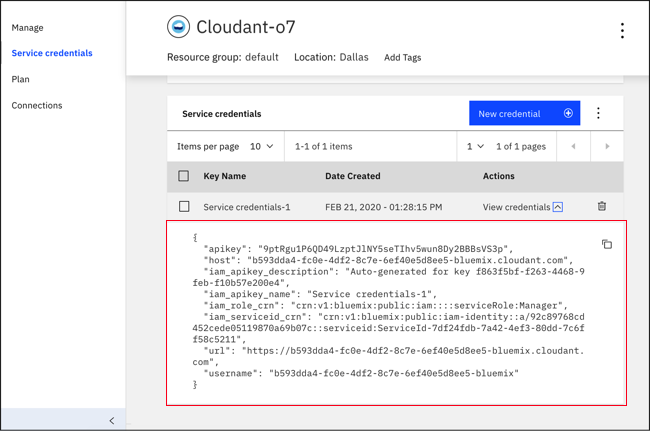
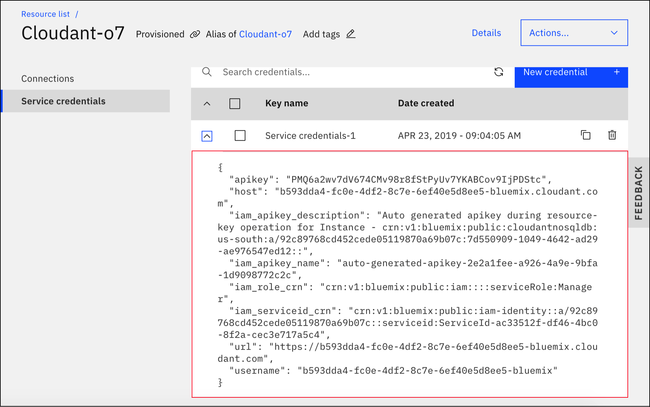
Update getting started tutorial.

diff --git a/getting-started.md b/getting-started.md
@@ -2,7 +2,7 @@
 
 copyright:
   years: 2015, 2020
-lastupdated: "2020-04-20"
+lastupdated: "2020-05-01"
 
 keywords: getting started, example, connect to service instance, create a database, populate database, retrieve data, queries, retrieve data, api endpoint, delete database, close connection, python code, couchdb-as-a-service, couchdb hosted, couchdb, databases for couchdb
 
@@ -109,6 +109,9 @@ Verify that you have what you need to start the tutorial from the following list
 
    a. In the {{site.data.keyword.cloud_notm}} dashboard, go to the **Menu** icon > **Resource List**, and open your {{site.data.keyword.cloudant_short_notm}} service instance.
 
+   Remember to create a service instance first. You can see instructions in the second bullet of the [Before you begin](/docs/services/Cloudant?topic=cloudant-getting-started-with-cloudant#prereqs) section. 
+   {: note}
+
    b. In the menu, click `Service credentials`.
 
    c. Click the `New credential` button.
@@ -117,7 +120,7 @@ Verify that you have what you need to start the tutorial from the following list
   
    d. Enter a name for the new credential in the Add new credential window, as shown in the following screen capture.
 
-   e. (Optional) Add inline configuration parameters.
+   e. (Optional) Click Advanced options, and add inline configuration parameters.
 
    f. Click the `Add` button. 
 
@@ -125,7 +128,7 @@ Verify that you have what you need to start the tutorial from the following list
 
    Your credentials are added to the Service credentials table.
    
-   g. Click `View credentials` under Actions. 
+   g. Click the twistie to the left of your service credential. 
    
    ![View all service credentials.](tutorials/images/img0052.png){: caption="Figure 4. View all service credentials" caption-side="bottom"}
    
@@ -264,11 +267,11 @@ A full retrieval also includes the data within a document.
     ```json
     [
         {
+            "id": "14be111aac74534cf8d390eaa57db888",
+            "key": "14be111aac74534cf8d390eaa57db888",
             "value": {
                 "rev": "1-106e76a2612ea13468b2f243ea75c9b1"
-            },
-            "id": "14be111aac74534cf8d390eaa57db888",
-            "key": "14be111aac74534cf8d390eaa57db888"
+            }
         }
     ]
     ```
@@ -325,7 +328,7 @@ Follow these steps to see your database and documents on the {{site.data.keyword
     The {{site.data.keyword.cloud_notm}} dashboard can be found at: cloud.ibm.com. After you authenticate with your user name and password, you're presented with the IBM Cloud dashboard.
 2.  Click **Services** in the Resource summary pane to see your {{site.data.keyword.cloudant_short_notm}} service instances. 
 3.  Click the service instance whose details you want to see.
-4.  Click **Launch Cloudant Dashboard**. 
+4.  Click **Launch Dashboard**. 
     When the dashboard opens, you can see the databases that are associated with your service.
 
 
